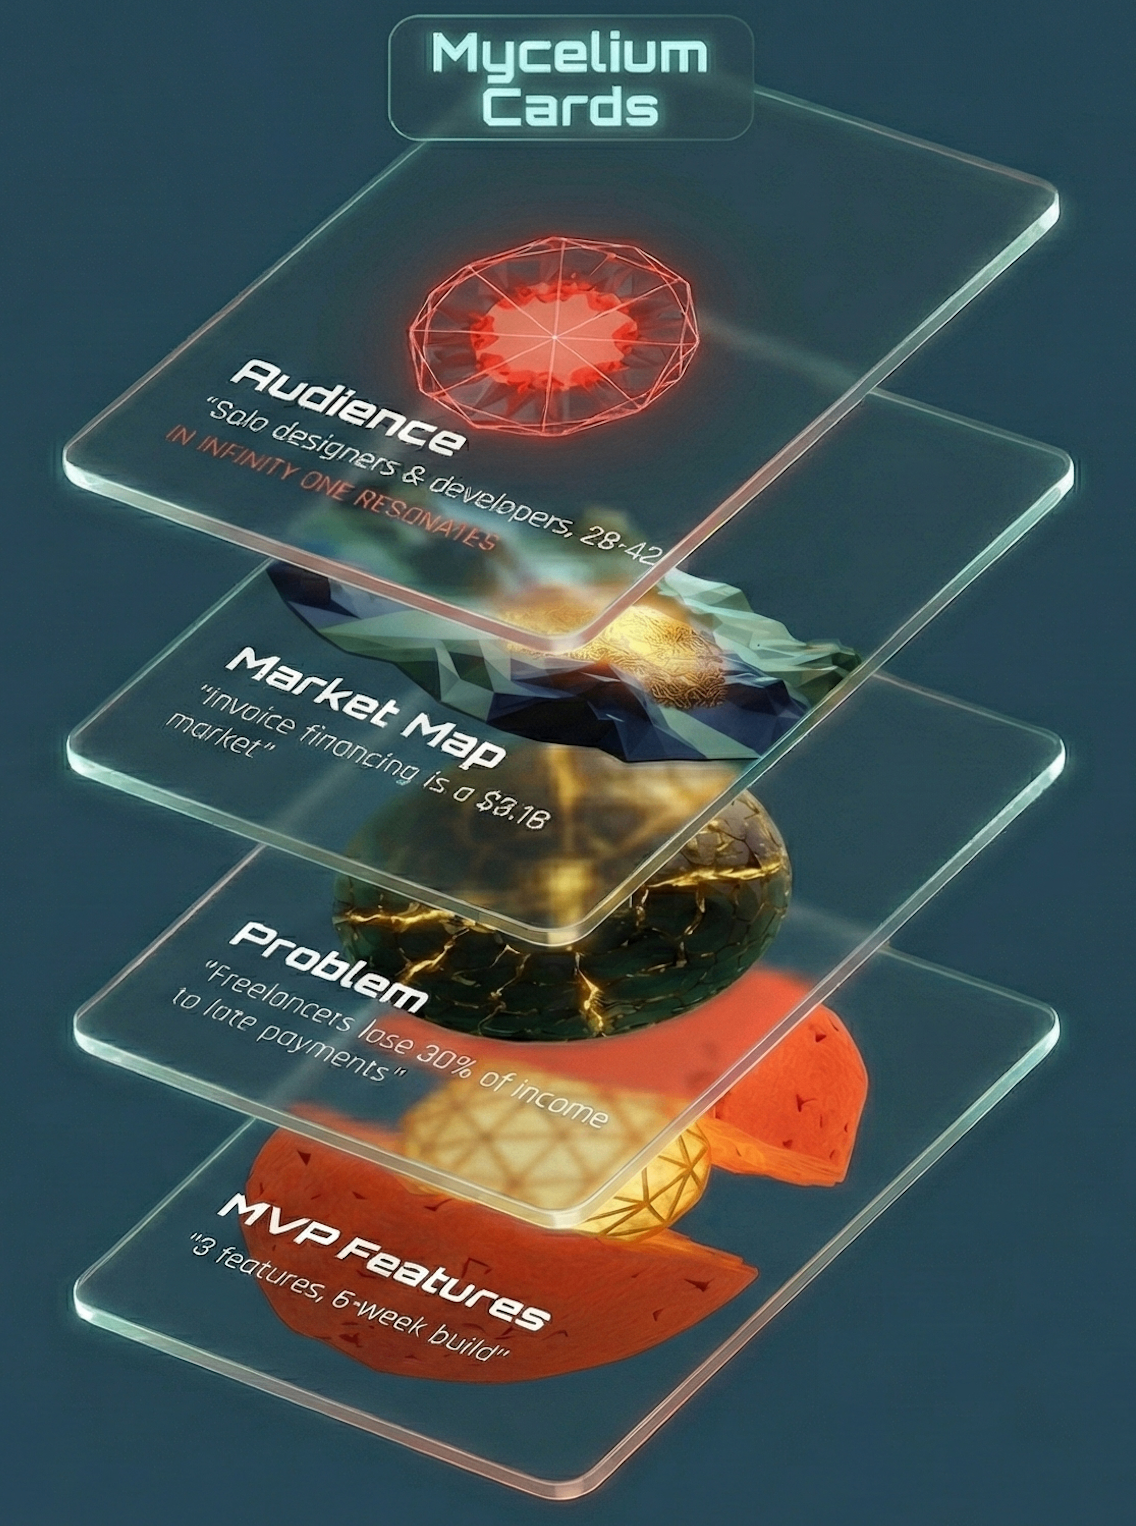
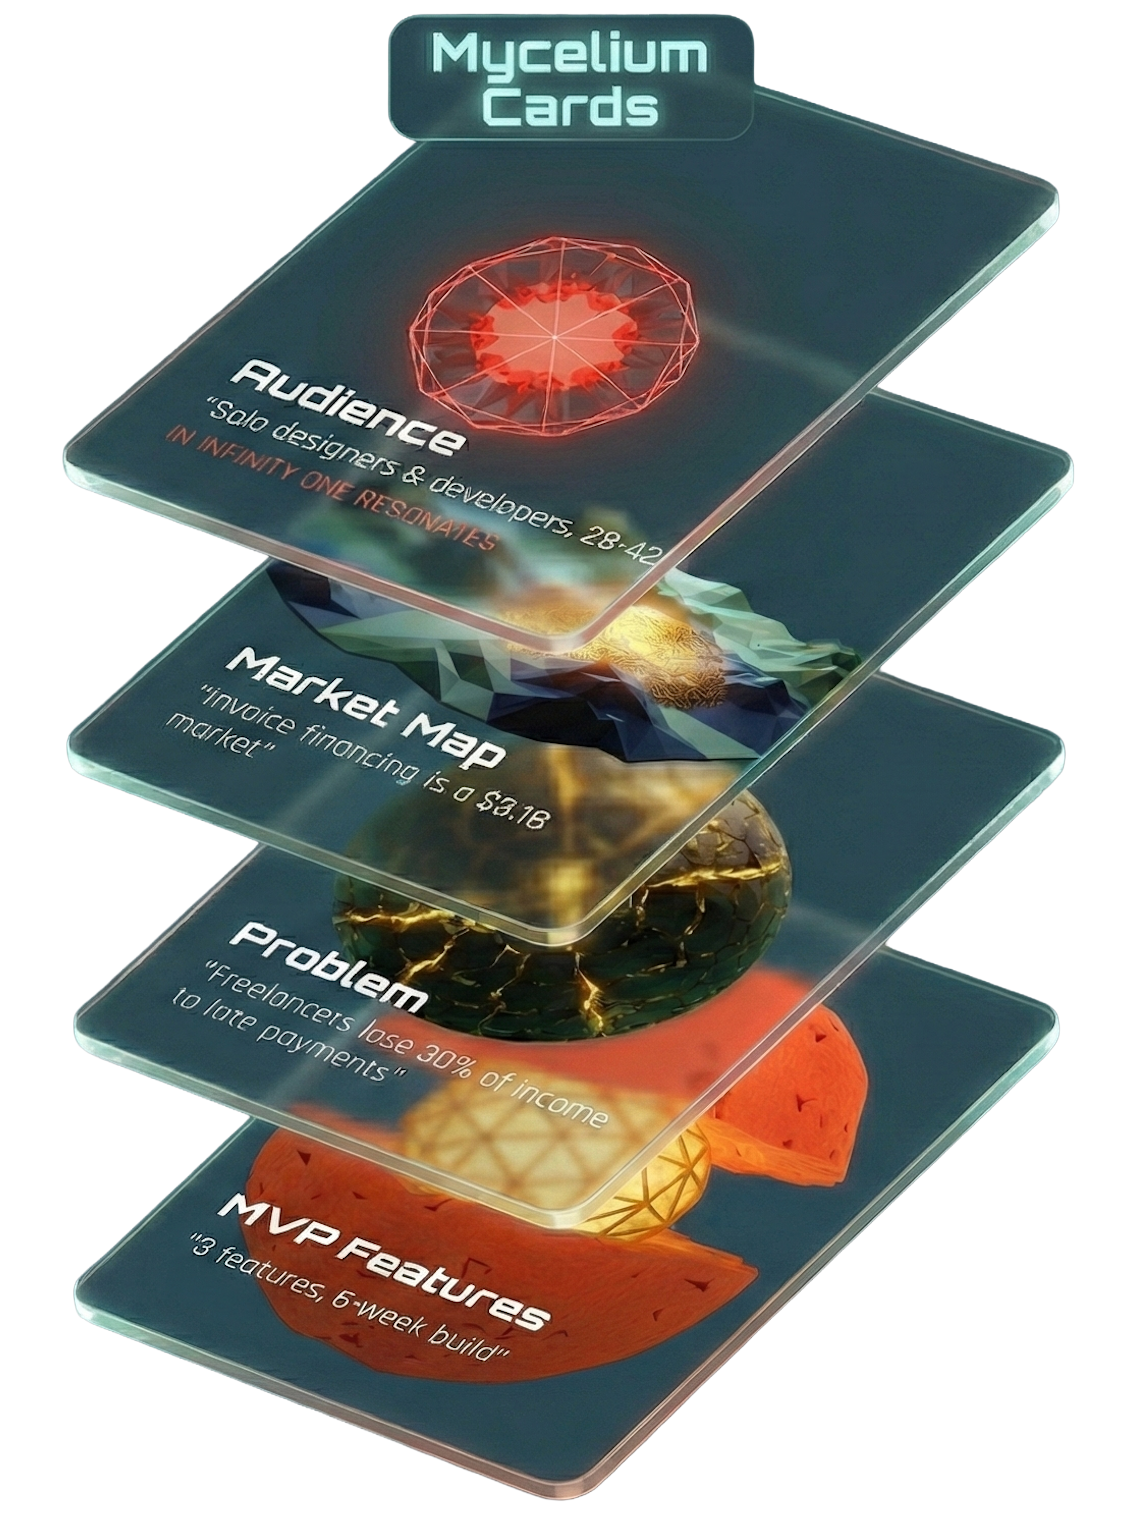
Changes

diff --git a/src/pages/Onboarding.tsx b/src/pages/Onboarding.tsx
@@ -152,7 +152,7 @@ const Onboarding = () => {
           <img 
             src={myceliumCardsHero} 
             alt="Mycelium Cards" 
-            className="w-48 h-auto mx-auto mix-blend-lighten brightness-110"
+            className="w-48 h-auto mx-auto"
           />
           <div className="absolute inset-0 bg-primary/20 blur-3xl -z-10 scale-150 animate-pulse" />
         </motion.div>

diff --git a/src/pages/Auth.tsx b/src/pages/Auth.tsx
@@ -185,7 +185,7 @@ const Auth = () => {
             <img 
               src={myceliumCardsHero} 
               alt="Mycelium Cards" 
-              className="w-48 h-auto mx-auto mix-blend-lighten brightness-110"
+              className="w-48 h-auto mx-auto"
             />
             <div className="absolute inset-0 bg-primary/20 blur-3xl -z-10 scale-125" />
           </motion.div>

diff --git a/src/components/landing/MobileHero.tsx b/src/components/landing/MobileHero.tsx
@@ -35,7 +35,7 @@ export const MobileHero = () => {
           <img 
             src={myceliumCardsHero} 
             alt="Mycelium Cards" 
-            className="w-44 h-auto mx-auto mix-blend-lighten brightness-110"
+            className="w-44 h-auto mx-auto"
           />
           <div className="absolute inset-0 bg-primary/20 blur-3xl -z-10 scale-150" />
         </motion.div>
